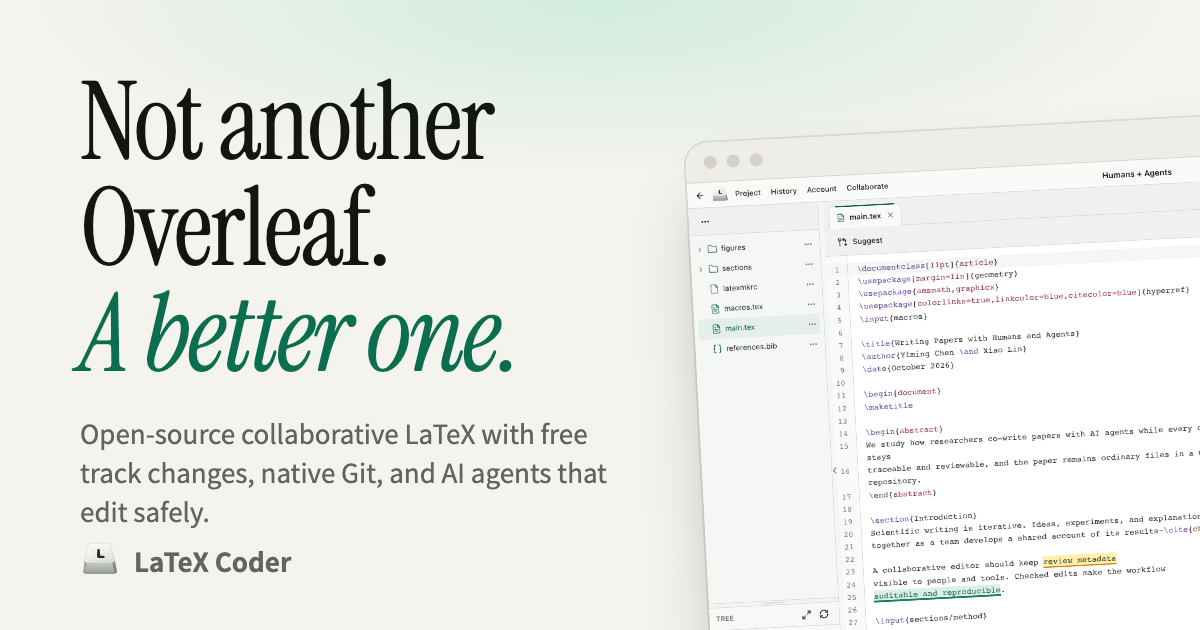
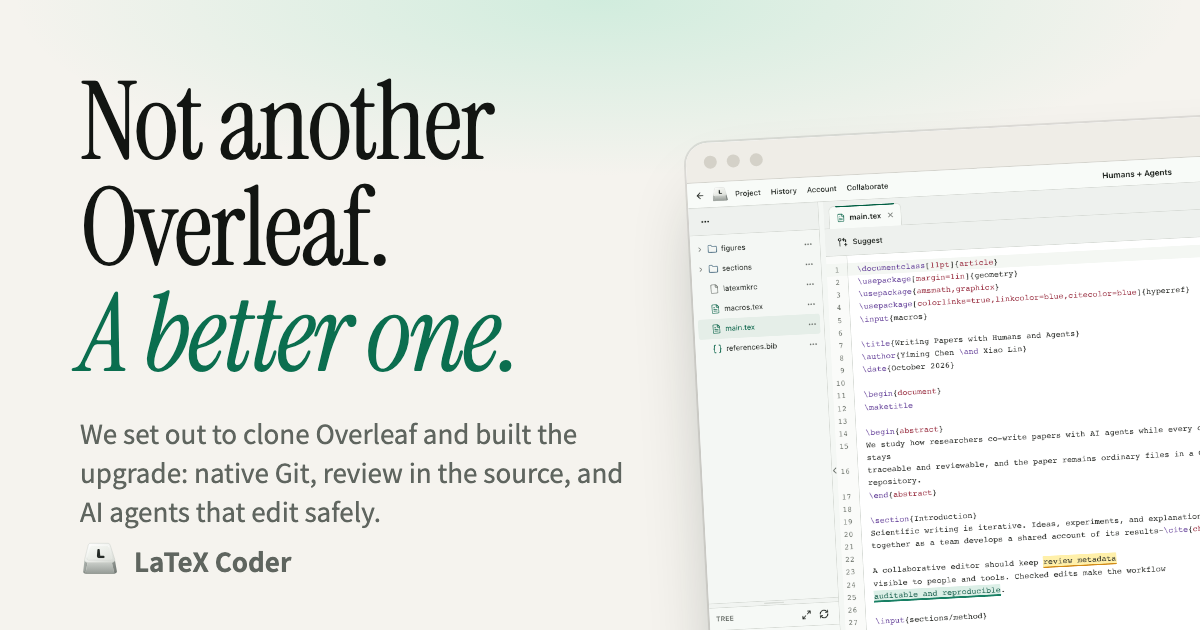
Tell the clone-turned-upgrade story and invite feature requests
- Website, READMEs, and Xiaohongshu cards now open with how the project
  started (a planned Overleaf clone that became a stronger editor) and end
  with a feature request invitation
- Drop the paid track changes comparison to match the edited post copy

Changed region(s): [[0.0617, 0.6635, 0.5242, 0.8444]]

diff --git a/site/index.html b/site/index.html
@@ -4,9 +4,9 @@
     <meta charset="UTF-8">
     <meta name="viewport" content="width=device-width, initial-scale=1.0">
     <title>LaTeX Coder — Not another Overleaf. A better one.</title>
-    <meta name="description" content="LaTeX Coder is an open-source, self-hosted LaTeX editor for research teams: real-time collaboration, free track changes, a real Git repository behind every paper, and a safe editing path for AI coding agents.">
+    <meta name="description" content="LaTeX Coder is an open-source, self-hosted LaTeX editor for research teams: real-time collaboration, review that lives in the source, a real Git repository behind every paper, and a safe editing path for AI coding agents.">
     <meta property="og:title" content="LaTeX Coder — Not another Overleaf. A better one.">
-    <meta property="og:description" content="Open-source collaborative LaTeX with free track changes, native Git, and first-class AI agent editing. Deploy in one click.">
+    <meta property="og:description" content="We set out to clone Overleaf and ended up building the upgrade: open-source collaborative LaTeX with native Git and first-class AI agent editing. Deploy in one click.">
     <meta property="og:image" content="https://evoevolver.github.io/LatexCoder/assets/og.png">
     <meta property="og:type" content="website">
     <meta name="twitter:card" content="summary_large_image">
@@ -46,7 +46,7 @@
           <a class="button ghost" href="https://github.com/EvoEvolver/LatexCoder">View on GitHub</a>
         </div>
         <ul class="hero-facts" aria-label="Highlights">
-          <li>Track changes, free</li>
+          <li>Review lives in the source</li>
           <li>Every paper is a Git repo</li>
           <li>Agents edit safely</li>
           <li>Guests need no account</li>
@@ -59,13 +59,14 @@
 
       <section class="why" id="why">
         <div class="section-head">
-          <p class="kicker">Why switch</p>
-          <h2>The parts you pay extra for,<br><em>built in and yours.</em></h2>
+          <p class="kicker">How this started</p>
+          <h2>We set out to clone Overleaf.<br><em>Then we kept fixing it.</em></h2>
+          <p>Cloning it meant cloning everything that gets in a research team’s way. So we rebuilt those parts instead — and ended up with something much stronger.</p>
         </div>
         <div class="swap-grid">
           <article>
-            <p class="was">Track changes behind a paywall</p>
-            <h3>Comments &amp; suggestions for everyone</h3>
+            <p class="was">Review that a Git push can wipe out</p>
+            <h3>Comments &amp; suggestions in the source</h3>
             <p>Inline comments, threaded replies, accept/reject suggestions — stored as LaTeX macros in the source, so they survive Git, ZIP exports, and agents.</p>
           </article>
           <article>
@@ -191,7 +192,6 @@
             <thead><tr><th></th><th>LaTeX Coder</th><th>Overleaf</th></tr></thead>
             <tbody>
               <tr><th>Price</th><td>Free, MIT licensed</td><td>Free tier; key features on paid plans</td></tr>
-              <tr><th>Track changes</th><td><span class="yes">Included</span></td><td>Premium feature</td></tr>
               <tr><th>Git</th><td><span class="yes">Real repo per project</span>, SSH, merge on push</td><td>Git Bridge on paid plans, one linear branch</td></tr>
               <tr><th>Reviews + Git</th><td><span class="yes">Review data travels with the source</span></td><td>Pushing can displace comments and tracked changes</td></tr>
               <tr><th>AI agents</th><td><span class="yes">Checked edit API</span>, propose-only mode</td><td>No checked edit API for external agents</td></tr>
@@ -200,7 +200,7 @@
             </tbody>
           </table>
         </div>
-        <p class="fine">Based on Overleaf’s public documentation for <a href="https://docs.overleaf.com/getting-started/free-and-premium-plans/premium-features">plans</a>, <a href="https://docs.overleaf.com/collaborating/track-changes">track changes</a>, and <a href="https://docs.overleaf.com/integrations-and-add-ons/git-integration-and-github-synchronization/git-integration/advanced-git-operations">Git</a>.</p>
+        <p class="fine">Based on Overleaf’s public documentation for <a href="https://docs.overleaf.com/getting-started/free-and-premium-plans/premium-features">plans</a> and <a href="https://docs.overleaf.com/integrations-and-add-ons/git-integration-and-github-synchronization/git-integration/advanced-git-operations">Git</a>.</p>
       </section>
 
       <section class="deploy" id="deploy">
@@ -215,6 +215,10 @@
 docker build -t latexcoder .
 docker run -p 8090:8080 -v latexcoder-data:/data \
   -e LATEXCODER_ADMIN_PASSWORD=… latexcoder</code></pre>
+        <div class="wish">
+          <p><b>What has Overleaf never built for you?</b> Tell us. The most requested features go to the top of our list.</p>
+          <a class="button ghost" href="https://github.com/EvoEvolver/LatexCoder/issues/new">Request a feature <span aria-hidden="true">→</span></a>
+        </div>
       </section>
     </main>
 

diff --git a/site/styles.css b/site/styles.css
@@ -94,6 +94,7 @@ h1 em, h2 em { color: var(--green); }
 section { scroll-margin-top: 60px; }
 .section-head { width: min(860px, 100%); margin: 0 auto 64px; text-align: center; }
 .section-head h2, .agents h2, .deploy h2 { font-family: var(--serif); font-weight: 400; font-size: clamp(40px, 5.4vw, 74px); line-height: 1.02; letter-spacing: -.02em; }
+.section-head h2 + p { width: min(640px, 100%); margin: 24px auto 0; color: var(--muted); font-size: 18px; line-height: 1.6; }
 .kicker { margin: 0 0 18px; font-family: var(--mono); font-size: 12px; font-weight: 500; letter-spacing: .12em; text-transform: uppercase; color: var(--green); }
 .kicker.light { color: var(--green-glow); }
 
@@ -159,6 +160,11 @@ tbody td:last-child { color: var(--muted); }
 .snippet { display: inline-block; max-width: 100%; margin: 40px auto 0; padding: 18px 22px; overflow-x: auto; border-radius: 12px; background: var(--night); text-align: left; }
 .snippet code { padding: 0; background: none; color: #d8ded9; font-size: 13.5px; line-height: 1.7; }
 
+.wish { display: flex; align-items: center; justify-content: space-between; gap: 24px; width: min(760px, 100%); margin: 56px auto 0; padding: 22px 26px; border-radius: 16px; text-align: left; background: var(--surface); box-shadow: inset 0 0 0 1px var(--line); }
+.wish p { margin: 0; color: var(--muted); font-size: 15px; line-height: 1.55; }
+.wish b { color: var(--ink); font-weight: 600; }
+.wish .button { flex: none; height: 42px; font-size: 14px; }
+
 footer { display: flex; justify-content: space-between; align-items: center; gap: 24px; padding: 26px 28px; border-top: 1px solid var(--line); color: var(--muted); font-size: 13px; }
 .brand.small { font-size: 13px; color: var(--ink); }
 .links { display: flex; gap: 22px; }
@@ -183,6 +189,7 @@ footer { display: flex; justify-content: space-between; align-items: center; gap
   th, td { padding: 14px; font-size: 14px; }
   .terminal pre { font-size: 12px; padding: 18px; }
   footer { flex-direction: column; align-items: flex-start; padding-inline: 16px; }
+  .wish { flex-direction: column; align-items: flex-start; }
 }
 
 @media (prefers-reduced-motion: reduce) {

diff --git a/README.md b/README.md
@@ -26,11 +26,18 @@
 
 ![LaTeX Coder workspace with file tree, LaTeX source, tracked suggestions, and PDF preview](docs/images/hero.webp)
 
+## How this started
+
+We set out to clone Overleaf so our lab could run it on our own server.
+Halfway through, it became clear that cloning Overleaf meant cloning
+everything that gets in a research team's way. So we stopped copying and
+started fixing, and ended up with a much stronger editor.
+
 ## Why teams switch
 
 |  | Elsewhere | LaTeX Coder |
 | --- | --- | --- |
-| **Track changes** | Often a paid feature | Comments, replies, and suggestions for everyone, stored in the source |
+| **Review** | Comments that a Git push can displace | Comments, replies, and suggestions stored in the source, so Git, exports, and agents keep them |
 | **Git** | A paid bridge with flattened history | Every paper *is* a Git repository: SSH clone, push, merge, restore |
 | **AI agents** | Copy-paste into a chat window | Hand Claude Code, Codex, or any shell agent one command; it edits the live paper safely |
 | **Collaborators** | Accounts and seat limits | View/Edit links for guests, no account, no seat count |
@@ -123,7 +130,7 @@ first-class citizen, and agents as collaborators.
 | --- | --- | --- |
 | Hosting | Self-hosted Node service; persistent data stays on your volume. | Hosted service, with separate on-premises products. |
 | Guest collaboration | View/Edit share links; an account is optional for project access. | Account-based collaboration with plan-dependent collaborator limits. |
-| Review data | Comments, replies, and suggestions are LaTeX macros visible to humans, agents, and Git. | Comments and Track Changes are platform-managed; Track Changes is a premium feature. |
+| Review data | Comments, replies, and suggestions are LaTeX macros visible to humans, agents, and Git. | Comments and Track Changes are platform-managed. |
 | Git model | Every project is a Git repository. The live documents represent `main`; incoming changes are merged before import. | Git Bridge translates Overleaf history into one linear branch named `master`; cloud Git integration is premium. |
 | Git and reviews | Macro-backed review state travels with source and is validated on import. | Overleaf advises against mixing active Git use with comments or Track Changes because pushes can displace or lose review metadata. |
 | Agent editing | Project-scoped plain-text manual, checked full-file edits, search, compilation, blame, review, and Git APIs. | General editor and integration workflows rather than this checked file-edit protocol. |
@@ -352,6 +359,11 @@ LATEXCODER_ADMIN_PASSWORD='1234567890' pnpm dev   # Vite on 5173 → app server 
 pnpm check                                        # build + typecheck
 pnpm test                                         # full test suite
 ```
+
+## Request a feature
+
+What has Overleaf never built for you? [Open an issue](https://github.com/EvoEvolver/LatexCoder/issues/new)
+and tell us. The most requested features go to the top of our list.
 
 ## License
 

diff --git a/README.zh-CN.md b/README.zh-CN.md
@@ -18,11 +18,15 @@
 
 ![LaTeX Coder 中文界面：文件树、源码、修订建议和 PDF 预览](marketing/shots/zh-CN/workspace.png)
 
+## 这个项目是怎么来的
+
+我们一开始只是想复刻一个 Overleaf，部署在课题组自己的服务器上用。做到一半发现，Overleaf 的坑实在太多，复刻它就等于把这些坑一起复刻过来。于是我们不再照抄，而是一个个把坑填平，最后做成了一个 Overleaf 超级加强版。
+
 ## 为什么换
 
 | | 别处 | LaTeX Coder |
 | --- | --- | --- |
-| **修订 / 批注** | 往往是付费功能 | 人人可用，审阅记录以 LaTeX 宏的形式存在源码里 |
+| **修订 / 批注** | 存在平台数据库里，Git 推送可能冲掉 | 以 LaTeX 宏的形式存在源码里，Git、导出、AI 都保得住 |
 | **Git** | 付费桥接，历史被压成一条线 | 每篇论文本身就是 Git 仓库：SSH 克隆、推送、合并、回滚 |
 | **AI 改稿** | 复制到聊天框再粘回来 | 把一条命令交给 Claude Code、Codex 等智能体，直接安全地改实时论文 |
 | **协作者** | 需要账号，人数受套餐限制 | 查看 / 编辑链接，访客免注册，不限人数 |
@@ -78,6 +82,10 @@ LATEXCODER_ADMIN_PASSWORD='use-a-long-random-password' pnpm start
 中文论文（`ctex`）需要 XeLaTeX：编译器选 latexmk 时，在项目根目录放一个 `latexmkrc`，写入 `$pdflatex = 'xelatex %O %S';` 即可。Tectonic 本身基于 XeTeX 引擎。
 
 部署、Git、编译、配置项和安全模型的完整说明见 [英文 README](README.md)。
+
+## 提功能需求
+
+写论文时你最想要、但 Overleaf 一直没做的功能是什么？欢迎[提 Issue](https://github.com/EvoEvolver/LatexCoder/issues/new) 告诉我们，呼声高的功能我们优先做。
 
 ## 许可证
 
